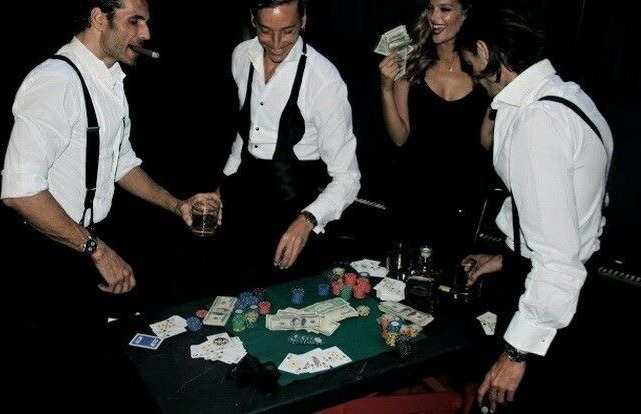
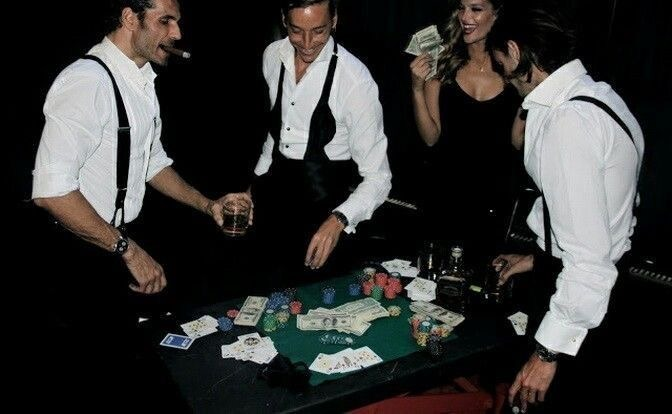
Checkpoint 4: Gentlemen's mood board, now second; Ladies third
The host asked for the order: The Velvet Cellar, the Gentlemen, the Ladies.
Each position keeps its page layout; the boards swap places. Eight photographs
added to the Gentlemen's board. Mood board installer added (tools/moodboard.py);
margin trimming is now opt-in, and the card table picture is restored uncut.

Claude-Session: https://claude.ai/code/session_01H69AVM4cV7PdFS8bnCDGUJ

diff --git a/src/styles/sections-b.css b/src/styles/sections-b.css
@@ -739,7 +739,7 @@ html[data-view='dossier'] body {
 .board + .board {
   border-top: 3px double rgb(73 5 24 / 0.45);
 }
-.board--ladies {
+.board--second {
   background: linear-gradient(rgb(246 236 214 / 0.72), rgb(246 236 214 / 0.72)), url('../assets/textures/parchment.webp') 0 0 / 360px;
 }
 .board ::selection {
@@ -845,7 +845,7 @@ html[data-view='dossier'] body {
 }
 
 /* Board one: a wide opening photograph above three columns. */
-.board--cellar .plate-item:first-child {
+.board--first .plate-item:first-child {
   column-span: all;
 }
 @media (min-width: 48em) {
@@ -855,44 +855,44 @@ html[data-view='dossier'] body {
   .plate-item {
     margin-bottom: 1.25rem;
   }
-  .board--cellar .plates,
-  .board--gentlemen .plates {
+  .board--first .plates,
+  .board--third .plates {
     columns: 3;
   }
-  .board--ladies .plates {
+  .board--second .plates {
     columns: 3;
   }
 }
 @media (min-width: 62em) {
   /* Board one: heading in a narrow left column, beside the photographs. */
-  .board--cellar .board-page {
+  .board--first .board-page {
     grid-template-columns: minmax(0, 19rem) minmax(0, 1fr);
     gap: var(--space-8);
   }
-  .board--cellar .board-head,
-  .board--ladies .board-head {
+  .board--first .board-head,
+  .board--second .board-head {
     position: sticky;
     top: 5.5rem;
   }
   /* Board two: four narrow columns, heading on the right. */
-  .board--ladies .board-page {
+  .board--second .board-page {
     grid-template-columns: minmax(0, 1fr) minmax(0, 19rem);
     gap: var(--space-8);
   }
-  .board--ladies .board-head {
+  .board--second .board-head {
     order: 2;
   }
-  .board--ladies .plates {
+  .board--second .plates {
     columns: 4;
   }
   /* Board three: a centred masthead over three broad columns. */
-  .board--gentlemen .board-head {
+  .board--third .board-head {
     justify-items: center;
     text-align: center;
     padding-bottom: var(--space-5);
     border-bottom: 2px dotted rgb(73 5 24 / 0.45);
   }
-  .board--gentlemen .board-title {
+  .board--third .board-title {
     font-size: var(--step-4);
   }
 }

diff --git a/tools/moodboard.py b/tools/moodboard.py
@@ -1,0 +1,42 @@
+"""Install a batch of mood board photographs.
+Usage: python3 tools/moodboard.py <board id> <items.json>
+items.json: [{"source": path, "original": name as sent, "name": short-name, "alt": description, "trim": true if it has screenshot margins}, ...] in display order.
+Keeps the original in originals/moodboards/<board>/, trims plain black or white screenshot margins,
+saves a JPG to src/assets/moodboards/<board>/ and lists the images in src/content/moodboards.json."""
+import sys, json, shutil, os
+from PIL import Image, ImageOps
+import numpy as np
+
+board_id, items_path = sys.argv[1:3]
+items = json.load(open(items_path))
+os.makedirs(f'originals/moodboards/{board_id}', exist_ok=True)
+os.makedirs(f'src/assets/moodboards/{board_id}', exist_ok=True)
+
+def trim(im):
+    a = np.asarray(im.convert('L')).astype(int)
+    def keep(axis):
+        black = (a < 14).mean(axis=axis) >= 0.985
+        white = (a > 243).mean(axis=axis) >= 0.985
+        idx = np.where(~(black | white))[0]
+        return (int(idx[0]), int(idx[-1]) + 1) if len(idx) else (0, a.shape[1 - axis])
+    (y0, y1), (x0, x1) = keep(1), keep(0)
+    box = (x0, y0, x1, y1)
+    return (im.crop(box), True) if box != (0, 0, im.width, im.height) else (im, False)
+
+listed = []
+for n, item in enumerate(items, 1):
+    ext = os.path.splitext(item['source'])[1].lower()
+    shutil.copyfile(item['source'], f"originals/moodboards/{board_id}/{item['original']}{ext}")
+    im = ImageOps.exif_transpose(Image.open(item['source'])).convert('RGB')
+    # Only where the item asks for it: dark photographs have genuinely black edges that must not be cut.
+    im, trimmed = trim(im) if item.get('trim') else (im, False)
+    name = f"{n:02d}-{item['name']}.jpg"
+    im.save(f'src/assets/moodboards/{board_id}/{name}', quality=92)
+    entry = {'file': name, 'alt': item['alt']}
+    if item.get('caption'): entry['caption'] = item['caption']
+    listed.append(entry)
+    print(f"{item['original']:12s} -> {name:30s} {im.width}x{im.height} height/width {im.height/im.width:.2f}{'  (margin trimmed)' if trimmed else ''}")
+
+p = 'src/content/moodboards.json'; d = json.load(open(p))
+next(b for b in d['boards'] if b['id'] == board_id)['images'] = listed
+open(p, 'w').write(json.dumps(d, indent=2, ensure_ascii=False) + '\n')
